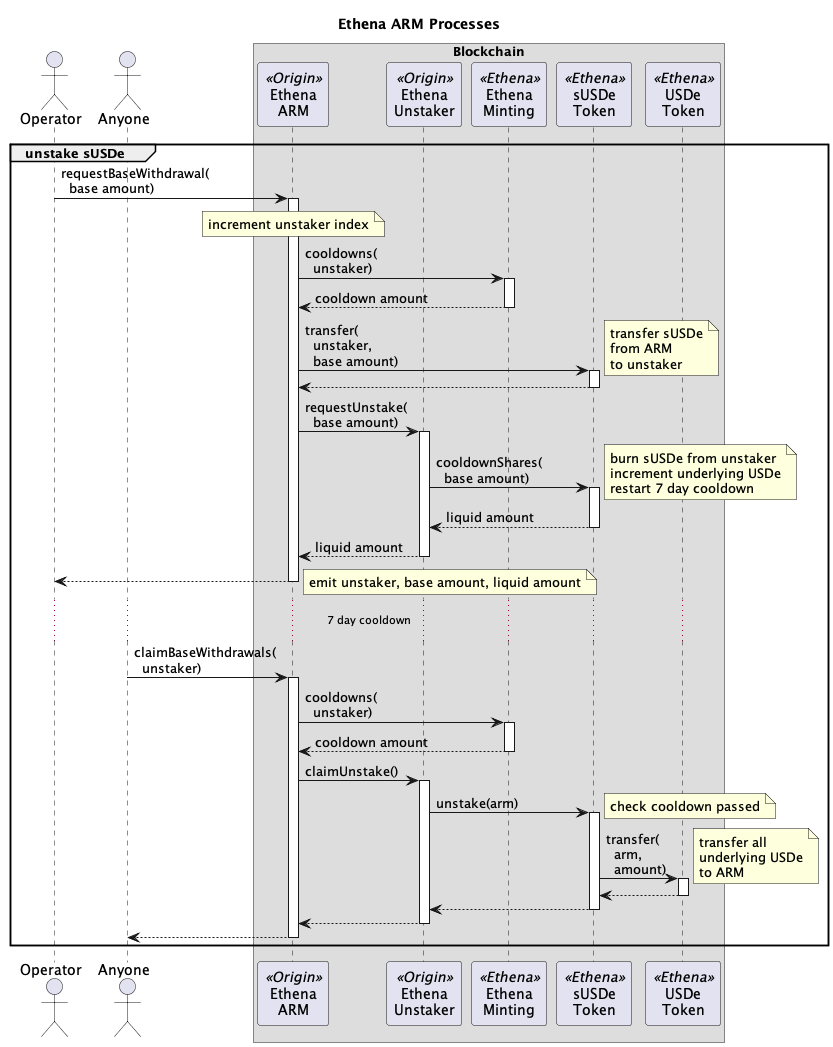
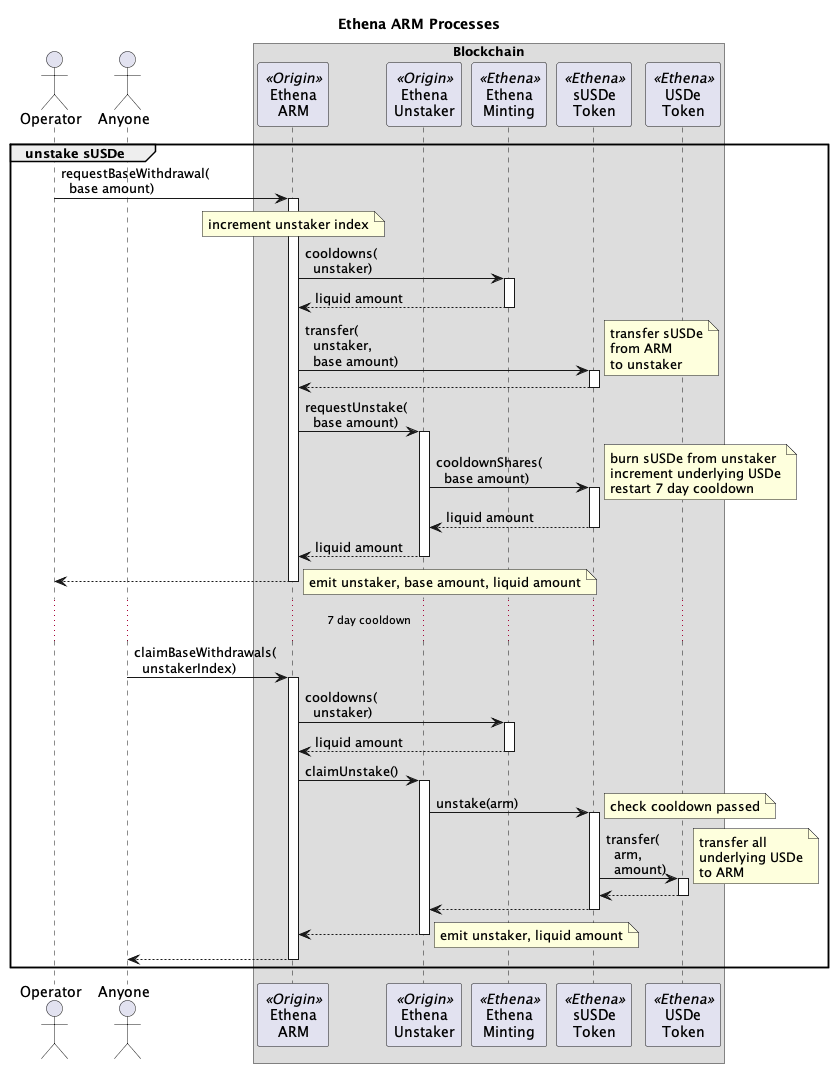
[EthenaARM] Deploy 20. (#191)
* Deploy 20

* Add UpgradeEthenaARMScript2 to DeployManager and rename contract

* Add vm.stopPrank() to GovSixHelper to handle executed proposals

* Mark previous proposal as executed

* Add UpgradeEthenaARMScript execution to deployments and fix ETHENA_ARM_IMPL address

* Generated Ethena ARM Processes diagram

* [Refactor] Simplify UpgradeEthenaARMScript by removing unused imports and logging

* Add UpgradeEthenaARMScript for deploying and upgrading EthenaARM implementation

* [Refactor] Optimize upgrade scripts by adding checks to skip already upgraded contracts

---------

diff --git a/src/js/tasks/ethenaQueue.js b/src/js/tasks/ethenaQueue.js
@@ -48,7 +48,7 @@ const fetchUnstakerStates = async (signer, addresses) => {
 
   // Promise.all executes all RPC calls simultaneously
   return Promise.all(
-    addresses.map(async (addr) => {
+    addresses.map(async (addr, index) => {
       const [cooldownEnd, underlyingAmount] = await contract.cooldowns(addr);
       const amountStr = formatUnits(underlyingAmount, 18);
       const isBalancePositive = underlyingAmount > 0;
@@ -69,6 +69,7 @@ const fetchUnstakerStates = async (signer, addresses) => {
 
       return {
         address: addr,
+        index, // Index in the unstakers array
         rawAmount: underlyingAmount, // Keep BigNumber for calculations
         amount: amountStr, // String for display
         hasBalance: isBalancePositive,
@@ -128,7 +129,7 @@ const claimEthenaWithdrawals = async (options) => {
     for (const item of claimable) {
       log(` - Processing claim for: ${item.address} (${item.amount} USDe)`);
       try {
-        const tx = await arm.connect(signer).claimBaseWithdrawals(item.address);
+        const tx = await arm.connect(signer).claimBaseWithdrawals(item.index);
         await logTxDetails(tx, `claimEthenaWithdrawal for ${item.address}`);
       } catch (err) {
         log(`Error claiming for ${item.address}: ${err.message}`);
